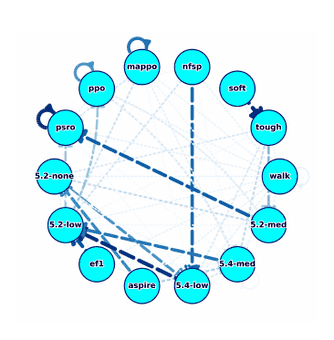
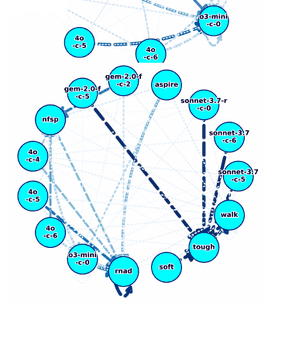
Simplify research entries: figure under each, no abstract dropdowns
Each entry is now title, authors, venue, one-line summary and the
paper's headline figure at 320px underneath. Abstract toggles and their
panels are gone. Line length is capped so the text does not run the full
column width. Stylesheet links carry a version query so browsers pick up
today's CSS instead of a cached copy.

Hot Starts now uses Figure 2 (cooperative containment) and the bargaining
entry the best-response graph including R-NaD.

diff --git a/research.html b/research.html
@@ -39,56 +39,7 @@
     <link href="https://cdn.jsdelivr.net/npm/bootstrap@5.2.0-beta1/dist/css/bootstrap.min.css" rel="stylesheet" integrity="sha384-0evHe/X+R7YkIZDRvuzKMRqM+OrBnVFBL6DOitfPri4tjfHxaWutUpFmBp4vmVor" crossorigin="anonymous">
     <link rel="stylesheet" href="https://cdnjs.cloudflare.com/ajax/libs/font-awesome/6.5.2/css/all.min.css" integrity="sha512-SnH5WK+bZxgPHs44uWIX+LLJAJ9/2PkPKZ5QiAj6Ta86w+fsb2TkcmfRyVX3pBnMFcV7oQPJkl9QevSCWr3W6A==" crossorigin="anonymous" referrerpolicy="no-referrer">
     <link rel="stylesheet" href="https://cdn.jsdelivr.net/gh/jpswalsh/academicons@1.9.4/css/academicons.min.css">
-    <link rel="stylesheet" href="assets/css/main.css">
-    <style>
-        /* Research entry styles */
-        /* Minimal, link-like abstract control so the rows stay borderless. */
-        .abstract-toggle {
-            display: inline-flex;
-            align-items: center;
-            gap: 0.4rem;
-            margin-top: 0.5rem;
-            padding: 0;
-            background: none;
-            border: 0;
-            cursor: pointer;
-            font-size: 0.9rem;
-            font-weight: 600;
-            color: var(--link-color);
-            text-align: left;
-        }
-        .abstract-toggle:hover,
-        .abstract-toggle:focus-visible {
-            color: var(--link-hover);
-            outline: none;
-            text-decoration: underline;
-        }
-        .abstract-toggle .abstract-label {
-            display: inline-flex;
-            align-items: center;
-            gap: 0.4rem;
-        }
-        .abstract-toggle .chevron {
-            transition: transform 0.25s ease;
-            font-size: 0.75rem;
-            flex-shrink: 0;
-        }
-        .abstract-toggle[aria-expanded="true"] .chevron {
-            transform: rotate(180deg);
-        }
-        .abstract-content {
-            padding: 0.6rem 0 0;
-            margin-bottom: 0;
-            line-height: 1.6;
-            font-size: 0.95rem;
-            color: var(--text-secondary);
-        }
-        @media (max-width: 576px) {
-            .abstract-content {
-                font-size: 0.92rem;
-            }
-        }
-    </style>
+    <link rel="stylesheet" href="assets/css/main.css?v=20261112">
 </head>
 
 <body>
@@ -226,6 +177,9 @@
                             <p class="research-authors"><strong>Gabriel Smithline</strong>, <a href="https://strategicreasoning.org/michael-p-wellman/" target="_blank" rel="noopener">Michael P. Wellman</a></p>
                             <p class="research-venue"><em>Under review</em> &middot; 2026</p>
                             <p class="research-summary">How much do conclusions from empirical game analysis depend on which strategies happen to be in the set? Measured through counterfactual influence and best-response closure.</p>
+                            <div class="research-figure">
+                                <img src="assets/img/figures/equilibrium-support.png" alt="Figure 4a from the paper: maximum Nash support size plotted against maximum CURB closure size across 23 empirical games." width="326" height="340" loading="lazy">
+                            </div>
                         </div>
 
                         <div class="research-item">
@@ -233,13 +187,9 @@
                             <p class="research-authors"><strong>Gabriel Smithline</strong>, <a href="https://celestine.ai/" target="_blank" rel="noopener">Celestine Mendler-D&uuml;nner</a></p>
                             <p class="research-venue"><em>NeurIPS 2026 Workshop on Foundations of LLM Post-Training in Changing Environments</em> &middot; Full paper in preparation &middot; 2026 &nbsp;/&nbsp; <a href="https://drive.google.com/file/d/1yLxq60wpV3l03dAy4AXd_x4vKVVpD2Xr/view?usp=drive_link" target="_blank" rel="noopener">Working Paper</a></p>
                             <p class="research-summary">The regularization strength chosen during post-training can decide where collective opinions settle when models and people repeatedly train on each other.</p>
-                            <button class="abstract-toggle collapsed" type="button" data-bs-toggle="collapse" data-bs-target="#abstract-retraining" aria-expanded="false" aria-controls="abstract-retraining">
-                                <span class="abstract-label"><i class="fa-regular fa-file-lines"></i>Abstract</span>
-                                <i class="fa-solid fa-chevron-down chevron"></i>
-                            </button>
-                            <div class="collapse" id="abstract-retraining">
-                                <p class="abstract-content justify">LLMs can influence individual opinions. These opinions shape the interactions that make up the training data for future model updates. This recursive coupling between LLMs and individuals creates a dynamic where algorithmic design choices can determine social outcomes. In this work we perform a case study with more than a dozen open weight models to show how a nuisance regularization parameter can qualitatively alter emerging social dynamics. We repeatedly post-train an LLM on individuals' expressed opinions and apply an established model of opinion dynamics to simulate LLM influence. We investigate the equilibrium of these coupled dynamics and assess model influence as the deviation of collective opinions at equilibrium from those that would emerge in the absence of LLM influence. Our core finding is that the strength of regularization towards the pretraining policy can qualitatively alter equilibrium outcomes. While in the limit of a fixed model the influence is maximized, stronger adaptation leads to weaker drift, even preserving the mean in the limit of perfect prediction. Connecting these findings to the stable signal hypothesis, our results explain how algorithmic design choices can mediate social impact through differentiating performative effects.</p>
-                            </div>
+                            <a class="research-figure" href="https://drive.google.com/file/d/1yLxq60wpV3l03dAy4AXd_x4vKVVpD2Xr/view?usp=drive_link" target="_blank" rel="noopener">
+                                <img src="assets/img/figures/regularization-post-training.png" alt="Figure from the paper: a closed feedback loop in which a platform&#39;s post-training shapes peer opinion dynamics, which in turn supply the next round of training data." width="490" height="340" loading="lazy">
+                            </a>
                         </div>
 
                         <div class="research-item">
@@ -247,13 +197,9 @@
                             <p class="research-authors"><strong>Gabriel Smithline</strong>, <a href="https://chrismascioli.com/" target="_blank" rel="noopener">Chris Mascioli</a></p>
                             <p class="research-venue"><em>ICML 2026 Mechanistic Interpretability Workshop</em> &middot; 2026 &nbsp;/&nbsp; <a href="https://arxiv.org/abs/2605.09403" target="_blank" rel="noopener">arXiv:2605.09403</a></p>
                             <p class="research-summary">Sparse mixture-of-experts routing shifts computation out of the feedforward block and into attention &mdash; an effect driven by sparsity rather than learned routing.</p>
-                            <button class="abstract-toggle collapsed" type="button" data-bs-toggle="collapse" data-bs-target="#abstract-sparsity" aria-expanded="false" aria-controls="abstract-sparsity">
-                                <span class="abstract-label"><i class="fa-regular fa-file-lines"></i>Abstract</span>
-                                <i class="fa-solid fa-chevron-down chevron"></i>
-                            </button>
-                            <div class="collapse" id="abstract-sparsity">
-                                <p class="abstract-content justify">Architectural choices inside the Transformer feedforward network (FFN) block do not merely affect the block itself; they reshape the computations learned by the rest of the model. We study this effect in one-layer Transformers trained on digit addition with carry, modular arithmetic, and histogram counting. Comparing dense FFNs, gated linear units (GLUs), mixture-of-experts (MoE), and MoE-GLUs, we find that sparse MoE routing can shift computation from FFN to attention, with the strongest ablation-visible effect on carry-based addition. We decompose this redistribution into reduced per-token FFN capacity and sparse partitioning across experts. Critically, frozen random routing nearly matches learned routing, suggesting that redistribution is driven largely by architectural sparsity rather than router-learned specialization. As a secondary finding, GLU-style multiplicative gating rotates task-relevant Fourier structure out of the per-neuron basis and into distributed subspaces, making neuron-level interpretability less informative while preserving structured computation. We validate these conclusions with random-routing, narrow-FFN, and top-2 MoE controls, plus parameter-matching, activation-function, and width-scaling analyses. Together, these results show that local FFN design choices can have nonlocal consequences for Transformer computation.</p>
-                            </div>
+                            <a class="research-figure" href="https://arxiv.org/abs/2605.09403" target="_blank" rel="noopener">
+                                <img src="assets/img/figures/sparsity-ffn.png" alt="Figure from the paper: accuracy with the feedforward block ablated, across dense, GLU and mixture-of-experts variants." width="520" height="276" loading="lazy">
+                            </a>
                         </div>
 
                         <div class="research-item">
@@ -261,13 +207,9 @@
                             <p class="research-authors"><strong>Gabriel Smithline</strong>, <a href="https://chrismascioli.com/" target="_blank" rel="noopener">Chris Mascioli</a>, <a href="https://sites.google.com/umich.edu/mithunchakra/" target="_blank" rel="noopener">Mithun Chakraborty</a>, <a href="https://strategicreasoning.org/michael-p-wellman/" target="_blank" rel="noopener">Michael P. Wellman</a></p>
                             <p class="research-venue"><em><a href="https://mas-2025.github.io/MAS-2025/" target="_blank" rel="noopener">ICML 2025 MAS Workshop</a></em> &middot; <a href="https://www.nber.org/programs-projects/projects-and-centers/econometrics-and-mathematical-economics/ceme-mathematical-economics" target="_blank" rel="noopener">NBER Conference on Econometrics and Mathematical Economics 2026</a> &middot; 1st place, AgentX&ndash;AgentBeats Competition (UC Berkeley RDI) &middot; 2025&ndash;2026 &nbsp;/&nbsp; <a href="assets/documents/publications/llms-negotiating-fair-allocation.pdf" target="_blank" rel="noopener">Working Paper</a></p>
                             <p class="research-summary">An empirical game-theoretic analysis of LLMs negotiating over indivisible items, relating individual effectiveness to welfare and fairness at meta-game equilibria.</p>
-                            <button class="abstract-toggle collapsed" type="button" data-bs-toggle="collapse" data-bs-target="#abstract-bargaining" aria-expanded="false" aria-controls="abstract-bargaining">
-                                <span class="abstract-label"><i class="fa-regular fa-file-lines"></i>Abstract</span>
-                                <i class="fa-solid fa-chevron-down chevron"></i>
-                            </button>
-                            <div class="collapse" id="abstract-bargaining">
-                                <p class="abstract-content justify">We conduct an empirical game-theoretic analysis of large language models (LLMs) negotiating to divide subjectively valued items, as a case study of assessing advanced AI in mixed-motive settings. Bargaining agents built on proprietary LLMs represent meta-strategies, mapping prompts describing the game to negotiation policies. A graduated series of prompting levels steers agents away from blatant negotiation errors. Across a variety of bargaining scenarios, we estimate empirical meta-games over meta-strategies that include LLM agents, three heuristic strategies representing extreme negotiation attitudes, two reinforcement-learning-derived policies, and an agent based on common bargaining heuristics. We evaluate agents at meta-game equilibria in terms of individual effectiveness, social welfare, and fairness, using bootstrap methods to quantify uncertainty. Our analysis reveals a positive association between individual effectiveness and social metrics across models, with performance varying systematically across providers, architectures, and prompting levels. Behavioral analyses further illuminate why certain models excel or fail in specific bargaining regimes and uncover distinct qualitative patterns across OpenAI, Anthropic, and Google models.</p>
-                            </div>
+                            <a class="research-figure" href="assets/documents/publications/llms-negotiating-fair-allocation.pdf" target="_blank" rel="noopener">
+                                <img src="assets/img/figures/llm-bargaining.png" alt="Figure from the paper: empirical best-response graph over LLM agents and the baseline policies, including R-NaD and NFSP." width="302" height="340" loading="lazy">
+                            </a>
                         </div>
 
                         <div class="research-item">
@@ -275,13 +217,9 @@
                             <p class="research-authors"><strong>Gabriel Smithline</strong>, <a href="https://anrigu.github.io/" target="_blank" rel="noopener">Anri Gu</a>, <a href="https://strategicreasoning.org/michael-p-wellman/" target="_blank" rel="noopener">Michael P. Wellman</a></p>
                             <p class="research-venue"><em>ACM International Conference on AI in Finance 2025 (ICAIF)</em> &middot; Oral presentation (top 15%) &middot; 2025 &nbsp;/&nbsp; <a href="https://strategicreasoning.org/market-selection-with-midpoint-matching-a-strategic-agent-based-analysis/" target="_blank" rel="noopener">PDF</a></p>
                             <p class="research-summary">An agent-based study of Nasdaq's M-ELO mechanism: short holding periods fail to deter fast small-lot trading, while long ones erode the midpoint premium for large traders.</p>
-                            <button class="abstract-toggle collapsed" type="button" data-bs-toggle="collapse" data-bs-target="#abstract-midpoint" aria-expanded="false" aria-controls="abstract-midpoint">
-                                <span class="abstract-label"><i class="fa-regular fa-file-lines"></i>Abstract</span>
-                                <i class="fa-solid fa-chevron-down chevron"></i>
-                            </button>
-                            <div class="collapse" id="abstract-midpoint">
-                                <p class="abstract-content justify">We study midpoint matching through Nasdaq's Midpoint Extended-Life Order (M-ELO) mechanism, which offers non-displayed midpoint execution subject to a mandatory holding period to balance liquidity and adverse-selection concerns. We conduct an empirical game-theoretic analysis using an agent-based simulation in PyMarketSim that models both M-ELO and a traditional lit order book, simulating traders' venue choices across a range of holding periods and enumerating pure and mixed Nash equilibria for each setting. We analyze welfare outcomes, strategic stability via deviation graphs, and basins of attraction across these equilibria. Our findings reveal that shorter holding periods can insufficiently deter higher frequency small lot trading, while excessively long delays erode the midpoint premium for large traders. This highlights the fundamental trade-off in designing holding periods that effectively screen predatory trading without undermining value for intended users.</p>
-                            </div>
+                            <a class="research-figure" href="https://strategicreasoning.org/market-selection-with-midpoint-matching-a-strategic-agent-based-analysis/" target="_blank" rel="noopener">
+                                <img src="assets/img/figures/midpoint-matching.png" alt="Figure from the paper: a lit limit-order book and a dark pool connected through a midpoint pricing mechanism." width="520" height="308" loading="lazy">
+                            </a>
                         </div>
 
                         <div class="research-item">
@@ -289,13 +227,9 @@
                             <p class="research-authors"><strong>Gabriel Smithline</strong>, <a href="https://scholar.google.com/citations?user=XydKackAAAAJ&amp;hl=en" target="_blank" rel="noopener">Scott Nivison</a></p>
                             <p class="research-venue"><em>ARMS (Autonomous Robots and Multirobot Systems) Workshop at AAMAS 2025</em> &middot; Oral presentation &middot; AFRL research project &middot; 2024 &nbsp;/&nbsp; <a href="assets/documents/merged_hot_starts.pdf" target="_blank" rel="noopener">PDF</a></p>
                             <p class="research-summary">A graph convolutional network trained on Pareto-optimal configurations generates &ldquo;hot start&rdquo; pursuer positions that outperform random initialization.</p>
-                            <button class="abstract-toggle collapsed" type="button" data-bs-toggle="collapse" data-bs-target="#abstract-hot-starts" aria-expanded="false" aria-controls="abstract-hot-starts">
-                                <span class="abstract-label"><i class="fa-regular fa-file-lines"></i>Abstract</span>
-                                <i class="fa-solid fa-chevron-down chevron"></i>
-                            </button>
-                            <div class="collapse" id="abstract-hot-starts">
-                                <p class="abstract-content justify">Effectively positioning pursuers in pursuit-evasion games without prior knowledge of evader locations remains a significant challenge. A novel approach that combines game-theoretic control theory with Graph Neural Networks is introduced in this work. By conceptualizing pursuer configurations as strategic arrangements and representing them as graphs, a Graph Characteristic Space is constructed via multi-objective optimization to identify Pareto-optimal configurations. A Graph Convolutional Network (GCN) is trained on these Pareto-optimal graphs to generate strategically effective initial configurations, termed "hot starts". Empirical evaluations demonstrate that the GCN-generated hot starts provide a significant advantage over random configurations. In scenarios considering multiple pursuers and evaders, this method hastens the decline in evader survival rates, reduces pursuer travel distances, and enhances containment, showcasing clear strategic benefits.</p>
-                            </div>
+                            <a class="research-figure" href="assets/documents/merged_hot_starts.pdf" target="_blank" rel="noopener">
+                                <img src="assets/img/figures/pursuit-evasion.png" alt="Figure 2 from the paper: five pursuers with their capture radii surrounding a single evader, illustrating cooperative containment." width="520" height="309" loading="lazy">
+                            </a>
                         </div>
 
                         <div class="research-item">
@@ -303,13 +237,9 @@
                             <p class="research-authors">Aiden Lewington et al. (51 authors, including <strong>Gabriel Smithline</strong>)</p>
                             <p class="research-venue"><em>Preprint</em> &middot; 2024 &nbsp;/&nbsp; <a href="https://arxiv.org/abs/2412.06936" target="_blank" rel="noopener">arXiv:2412.06936</a></p>
                             <p class="research-summary">A proposal for an open-source policymaking platform: a multimodal economics model, mechanisms for eliciting diverse perspectives, and a public web interface.</p>
-                            <button class="abstract-toggle collapsed" type="button" data-bs-toggle="collapse" data-bs-target="#abstract-cooperative" aria-expanded="false" aria-controls="abstract-cooperative">
-                                <span class="abstract-label"><i class="fa-regular fa-file-lines"></i>Abstract</span>
-                                <i class="fa-solid fa-chevron-down chevron"></i>
-                            </button>
-                            <div class="collapse" id="abstract-cooperative">
-                                <p class="abstract-content justify">Advances in artificial intelligence (AI) present significant risks and opportunities, requiring improved governance to mitigate societal harms and promote equitable benefits. Current incentive structures and regulatory delays may hinder responsible AI development and deployment, particularly in light of the transformative potential of large language models (LLMs). To address these challenges, we propose developing the following three contributions: (1) a large multimodal text and economic-timeseries foundation model that integrates economic and natural language policy data for enhanced forecasting and decision-making, (2) algorithmic mechanisms for eliciting diverse and representative perspectives, enabling the creation of data-driven public policy recommendations, and (3) an AI-driven web platform for supporting transparent, inclusive, and data-driven policymaking.</p>
-                            </div>
+                            <a class="research-figure" href="https://arxiv.org/abs/2412.06936" target="_blank" rel="noopener">
+                                <img src="assets/img/figures/cooperative-ai.png" alt="Figure from the paper: system overview linking the AI legislator, the economics transformer and the policy interface." width="520" height="152" loading="lazy">
+                            </a>
                         </div>
 
                     </div>

diff --git a/blog.html b/blog.html
@@ -39,7 +39,7 @@
     <link href="https://cdn.jsdelivr.net/npm/bootstrap@5.2.0-beta1/dist/css/bootstrap.min.css" rel="stylesheet" integrity="sha384-0evHe/X+R7YkIZDRvuzKMRqM+OrBnVFBL6DOitfPri4tjfHxaWutUpFmBp4vmVor" crossorigin="anonymous">
     <link rel="stylesheet" href="https://cdnjs.cloudflare.com/ajax/libs/font-awesome/6.5.2/css/all.min.css" integrity="sha512-SnH5WK+bZxgPHs44uWIX+LLJAJ9/2PkPKZ5QiAj6Ta86w+fsb2TkcmfRyVX3pBnMFcV7oQPJkl9QevSCWr3W6A==" crossorigin="anonymous" referrerpolicy="no-referrer">
     <link rel="stylesheet" href="https://cdn.jsdelivr.net/gh/jpswalsh/academicons@1.9.4/css/academicons.min.css">
-    <link rel="stylesheet" href="assets/css/main.css">
+    <link rel="stylesheet" href="assets/css/main.css?v=20261112">
     <style>
         .blog-card {
             border: 1px solid var(--border-color);

diff --git a/athletics.html b/athletics.html
@@ -39,7 +39,7 @@
     <link href="https://cdn.jsdelivr.net/npm/bootstrap@5.2.0-beta1/dist/css/bootstrap.min.css" rel="stylesheet" integrity="sha384-0evHe/X+R7YkIZDRvuzKMRqM+OrBnVFBL6DOitfPri4tjfHxaWutUpFmBp4vmVor" crossorigin="anonymous">
     <link rel="stylesheet" href="https://cdnjs.cloudflare.com/ajax/libs/font-awesome/6.5.2/css/all.min.css" integrity="sha512-SnH5WK+bZxgPHs44uWIX+LLJAJ9/2PkPKZ5QiAj6Ta86w+fsb2TkcmfRyVX3pBnMFcV7oQPJkl9QevSCWr3W6A==" crossorigin="anonymous" referrerpolicy="no-referrer">
     <link rel="stylesheet" href="https://cdn.jsdelivr.net/gh/jpswalsh/academicons@1.9.4/css/academicons.min.css">
-    <link rel="stylesheet" href="assets/css/main.css">
+    <link rel="stylesheet" href="assets/css/main.css?v=20261112">
     <style>
         /* Athletics-specific styles */
         .athletics-gallery {

diff --git a/blog/causality-game-theory.html b/blog/causality-game-theory.html
@@ -38,7 +38,7 @@
     <link href="https://cdn.jsdelivr.net/npm/bootstrap@5.2.0-beta1/dist/css/bootstrap.min.css" rel="stylesheet" integrity="sha384-0evHe/X+R7YkIZDRvuzKMRqM+OrBnVFBL6DOitfPri4tjfHxaWutUpFmBp4vmVor" crossorigin="anonymous">
     <link rel="stylesheet" href="https://cdnjs.cloudflare.com/ajax/libs/font-awesome/6.5.2/css/all.min.css" integrity="sha512-SnH5WK+bZxgPHs44uWIX+LLJAJ9/2PkPKZ5QiAj6Ta86w+fsb2TkcmfRyVX3pBnMFcV7oQPJkl9QevSCWr3W6A==" crossorigin="anonymous" referrerpolicy="no-referrer">
     <link rel="stylesheet" href="https://cdn.jsdelivr.net/gh/jpswalsh/academicons@1.9.4/css/academicons.min.css">
-    <link rel="stylesheet" href="../assets/css/main.css">
+    <link rel="stylesheet" href="../assets/css/main.css?v=20261112">
     
     <!-- MathJax for LaTeX rendering -->
     <script>

diff --git a/index.html b/index.html
@@ -39,7 +39,7 @@
     <link href="https://cdn.jsdelivr.net/npm/bootstrap@5.2.0-beta1/dist/css/bootstrap.min.css" rel="stylesheet" integrity="sha384-0evHe/X+R7YkIZDRvuzKMRqM+OrBnVFBL6DOitfPri4tjfHxaWutUpFmBp4vmVor" crossorigin="anonymous">
     <link rel="stylesheet" href="https://cdnjs.cloudflare.com/ajax/libs/font-awesome/6.5.2/css/all.min.css" integrity="sha512-SnH5WK+bZxgPHs44uWIX+LLJAJ9/2PkPKZ5QiAj6Ta86w+fsb2TkcmfRyVX3pBnMFcV7oQPJkl9QevSCWr3W6A==" crossorigin="anonymous" referrerpolicy="no-referrer">
     <link rel="stylesheet" href="https://cdn.jsdelivr.net/gh/jpswalsh/academicons@1.9.4/css/academicons.min.css">
-    <link rel="stylesheet" href="assets/css/main.css">
+    <link rel="stylesheet" href="assets/css/main.css?v=20261112">
     <style>
         /* Logo grid styling */
         .logos {

diff --git a/assets/css/main.css b/assets/css/main.css
@@ -245,6 +245,12 @@ a:hover {
     border-bottom: 1px solid var(--border-color);
 }
 
+/* Keep the line length readable on wide screens. */
+.research-item > p,
+.research-item > h3 {
+    max-width: 68ch;
+}
+
 .research-item:first-child {
     padding-top: var(--spacing-sm);
 }
@@ -288,6 +294,25 @@ a:hover {
 .research-summary {
     margin-bottom: 0;
     color: var(--text-secondary);
+}
+
+/* Headline figure from the paper, under its entry. */
+.research-figure {
+    display: block;
+    width: 320px;
+    max-width: 100%;
+    margin-top: 0.9rem;
+}
+
+.research-figure img {
+    display: block;
+    width: 100%;
+    height: auto;
+}
+
+a.research-figure:hover img,
+a.research-figure:focus-visible img {
+    opacity: 0.85;
 }
 
 /* ============================================

diff --git a/teaching.html b/teaching.html
@@ -39,7 +39,7 @@
     <link href="https://cdn.jsdelivr.net/npm/bootstrap@5.2.0-beta1/dist/css/bootstrap.min.css" rel="stylesheet" integrity="sha384-0evHe/X+R7YkIZDRvuzKMRqM+OrBnVFBL6DOitfPri4tjfHxaWutUpFmBp4vmVor" crossorigin="anonymous">
     <link rel="stylesheet" href="https://cdnjs.cloudflare.com/ajax/libs/font-awesome/6.5.2/css/all.min.css" integrity="sha512-SnH5WK+bZxgPHs44uWIX+LLJAJ9/2PkPKZ5QiAj6Ta86w+fsb2TkcmfRyVX3pBnMFcV7oQPJkl9QevSCWr3W6A==" crossorigin="anonymous" referrerpolicy="no-referrer">
     <link rel="stylesheet" href="https://cdn.jsdelivr.net/gh/jpswalsh/academicons@1.9.4/css/academicons.min.css">
-    <link rel="stylesheet" href="assets/css/main.css">
+    <link rel="stylesheet" href="assets/css/main.css?v=20261112">
 </head>
 
 <body>
